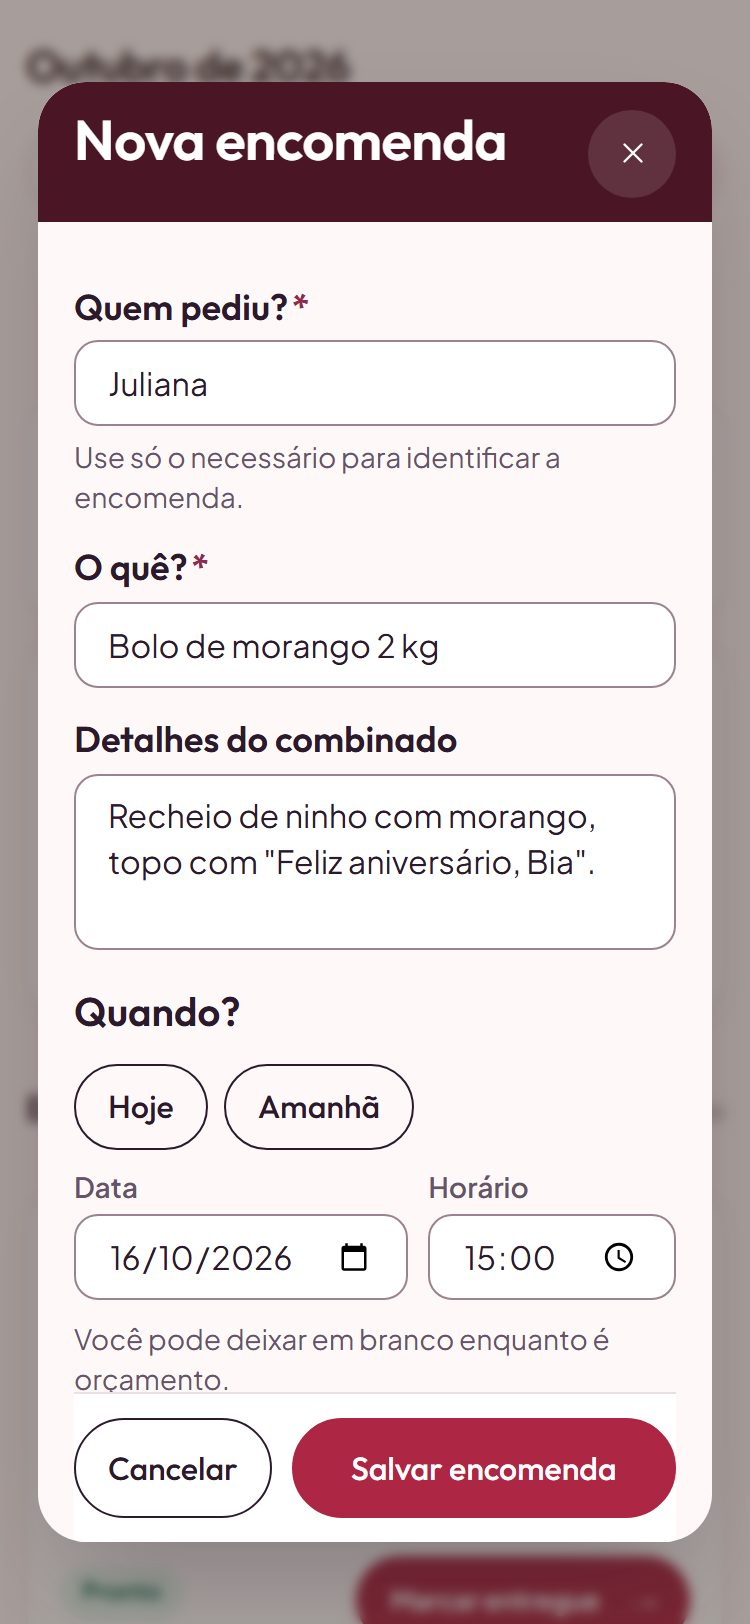
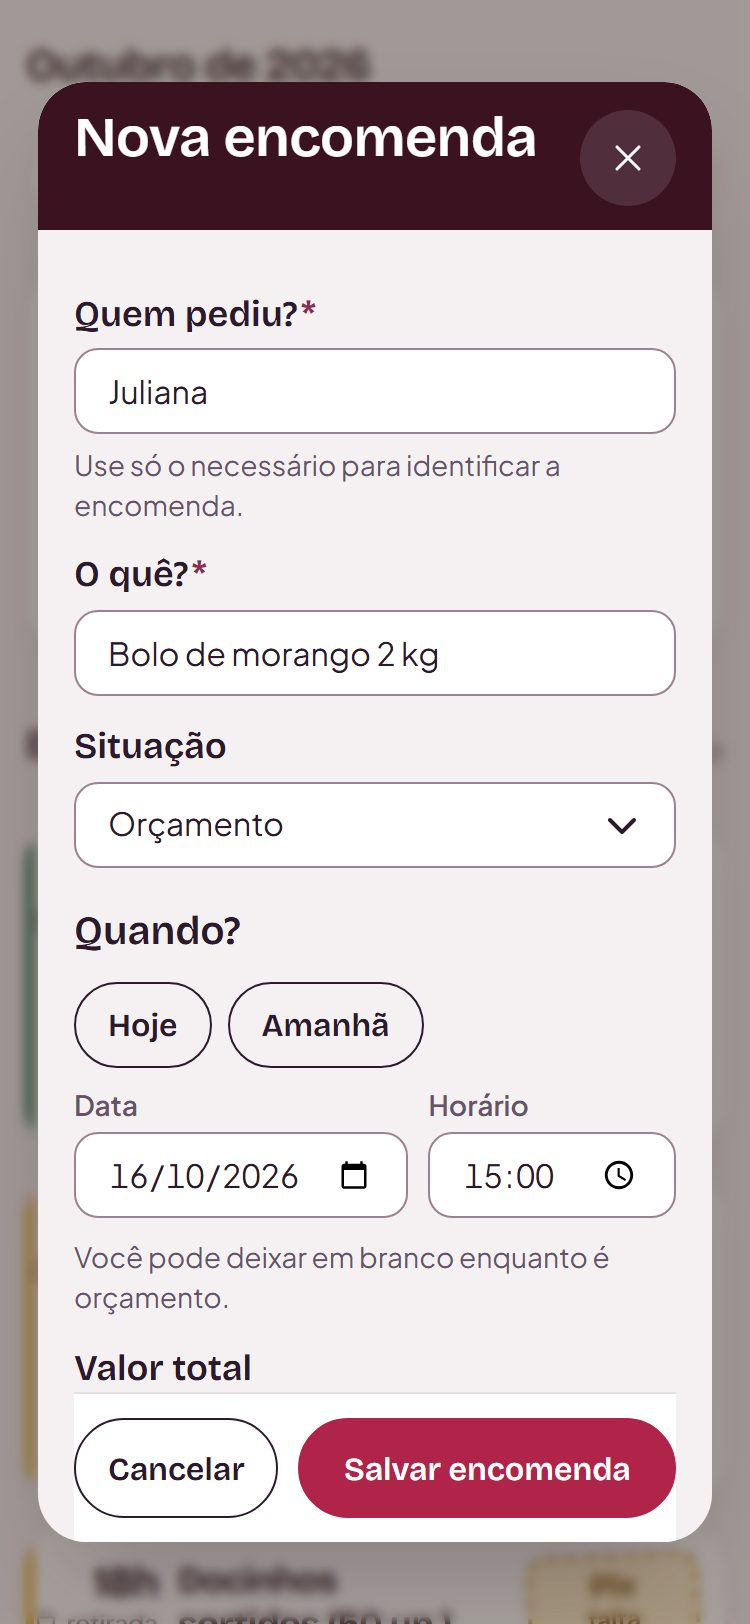
feat(visual): fase 6 da direção Comanda — vitrine, landing e privacidade
- Vitrine: produto sem foto vira cartão de texto (sem letra gigante).
- Landing: Bricolage, paleta nova, título numa cor só, rótulos em caixa
  normal, carimbo de volta; telas dos celulares refeitas.
- Script das telas da landing abre "Mais detalhes" antes do combinado.
- Privacidade com o fundo e o cabeçalho do app.
- context.md registra as 7 fases.

diff --git a/public/landing/landing.css b/public/landing/landing.css
@@ -312,3 +312,19 @@ h1,h2{letter-spacing:-.03em}
 .drip{display:none}
 /* O carimbo vira o selo verde do app: "Sinal conferido", sem rotação. */
 .stamp-mini{border:0;border-radius:30px;background:#e5f7ef;color:#006947;font-family:"Plus Jakarta Sans",sans-serif;font-size:12px;letter-spacing:0;text-transform:none;transform:none;padding:5px 10px}
+
+/* Direção Comanda (16/10): mesmas cores, letras e carimbo do app. */
+@font-face{font-family:"Bricolage Grotesque";src:url("/fonts/vnext/bricolage-600.woff2") format("woff2");font-weight:500 650;font-display:swap}
+@font-face{font-family:"Bricolage Grotesque";src:url("/fonts/vnext/bricolage-700.woff2") format("woff2");font-weight:651 900;font-display:swap}
+:root{--font-title:"Bricolage Grotesque","Plus Jakarta Sans",sans-serif;--papel:#f5f1f2;--ameixa:#3a1220;--ink:#2a141b;--muted:#6f5a61;--link:#b0244a;--line:#e9e0e3;
+  --wa-color-brand-fill-loud:#b0244a;--wa-color-brand-border-loud:#b0244a}
+body,.top-band{background:#f5f1f2}
+.top-band{border-bottom-color:#e9e0e3}
+h1{font-weight:700}
+/* O título fala por inteiro: sem metade em outra cor. */
+h1 em{color:inherit}
+/* Rótulos em caixa normal. */
+.eyebrow,.step-eyebrow,.ld-label,.pain-list small{text-transform:none;letter-spacing:0}
+/* O carimbo volta a ser carimbo: borda verde, leve inclinação. */
+.stamp-mini{border:2px solid #1e6b47;border-radius:10px;background:#e3f2e9;color:#1e6b47;font-family:"Bricolage Grotesque",sans-serif;font-weight:700;transform:rotate(-5deg)}
+@media (prefers-reduced-motion:reduce){.stamp-mini{transform:none}}

diff --git a/public/encomenda/order.js b/public/encomenda/order.js
@@ -83,6 +83,8 @@ function headerHtml() {
 }
 function cardHtml(p, tag) {
   const i = config.products.indexOf(p), price = Number.isInteger(p.priceFromCents) ? `<p class="price">a partir de ${formatCents(p.priceFromCents)}</p>` : '';
+  // Sem foto: cartão só de texto (antes virava uma letra enorme no lugar da imagem, com cara de inacabado).
+  if (!p.photo) return `<button type="button" class="card is-text" data-product="${i}">${tag ? `<span class="tag">${tag}</span>` : ''}<h3>${esc(p.name)}</h3>${price}${p.description ? `<p class="sub">${esc(p.description)}</p>` : ''}<span class="card-go" aria-hidden="true">Ver e pedir</span></button>`;
   return `<button type="button" class="card" data-product="${i}"><div class="img">${productPhoto(p)}${tag ? `<span class="tag">${tag}</span>` : ''}</div><h3>${esc(p.name)}</h3>${price || (p.description ? `<p class="sub">${esc(p.description)}</p>` : '')}</button>`;
 }
 function renderHome() {

diff --git a/public/encomenda/order.css b/public/encomenda/order.css
@@ -270,3 +270,9 @@ input:focus-visible,select:focus-visible,textarea:focus-visible{outline:3px soli
   .sheet{max-width:620px}
   .foot{max-width:1180px;margin:0 auto}
 }
+/* Direção Comanda (16/10): produto sem foto vira cartão de texto, na cor da confeitaria. */
+.card.is-text{position:relative;justify-content:flex-start;gap:4px;min-height:132px;padding:16px;border-radius:var(--r-img);background:var(--a-tint);color:var(--t)}
+.card.is-text .tag{position:static;align-self:flex-start;margin-bottom:6px}
+.card.is-text h3{margin:0}
+.card.is-text .card-go{margin-top:auto;padding-top:10px;color:var(--a-ink);font-size:14px;font-weight:700}
+.grid.one .card.is-text{min-height:0}

diff --git a/public/privacidade/privacy.css b/public/privacidade/privacy.css
@@ -7,3 +7,5 @@ h1,h2{font-family:var(--font-title);line-height:1.12}h1{font-size:clamp(30px,7vw
 a{color:var(--link)}a:focus-visible{outline:3px solid var(--focus);outline-offset:3px}
 footer{max-width:680px;margin:auto;padding:24px 20px 40px;font-size:12px;color:var(--muted)}
 @media(max-width:380px){header{padding:16px 20px}}
+/* Direção Comanda (16/10): mesmo fundo e cabeçalho do app. */
+body{background:#f5f1f2;color:#2a141b}header{background:#fff;border-bottom:1px solid #e9e0e3}h1,h2{font-family:"Bricolage Grotesque","Plus Jakarta Sans",sans-serif;letter-spacing:-.02em}

diff --git a/context.md b/context.md
@@ -14,6 +14,7 @@ Atualizado em **16/10/2026**. Passagem de bastão: estado real, decisões e o qu
   - Aceite: "Aceitar pedido" (Confirmado) / "Ainda vou passar o preço" (Orçamento) / "Recusar". Pedido com telefone ganha "Abrir conversa com o resumo" (wa.me com texto; fora da demo/exemplos). Resumo inclui a chave Pix se o Pix estiver ligado.
   - Verificado: `npm run check` passou; demo local 360/1280 e demo publicada 360 (barra, ordem da Agenda, revisão, rodapé do pedido). Não verificado: conta real, iPhone, abrir o WhatsApp de verdade.
   - Decidido não fazer: aceite único perguntando do sinal (misturaria situação com dinheiro); rosa forte para alerta (é a cor da marca).
+- **Direção visual "Comanda" (16/10), aprovada por Lucas, 7 fases publicadas** (relatório em `docs/auditoria-ui-2026-10-16/`, regras em `BRAND.md`): 0 defeitos (cartão cortado a 360 px, WhatsApp na demo, valores quebrados, contraste); 1 cores/fontes (Bricolage + Plus Jakarta, fundo farinha); 2 cartão Comanda + carimbo do dinheiro; 3 ficha + WhatsApp com verbo do momento (sinal sugerido do Pix, padrão 30%); 4 cabeçalhos curtos, contador só do que pede ação, Meu mês com Recebido em destaque; 5 cartão sem interativo aninhado (axe 0 em Agenda/Pedidos), Fredoka/Figtree fora do site; 6 vitrine sem foto em cartão de texto, landing e privacidade na nova paleta. `npm run check` passou até a fase 5; na 6 rodaram vitrine, landing e carimbos. **Pendente:** remover o CSS Glacê morto de `style.css` com comparação de capturas; landing ainda carrega Outfit; ninguém real testou. Scripts da auditoria em `Documents/doce-agenda-auditoria/`.
 - Antes: **caixa de entrada** em Pedidos → Novos (Para revisar / Em negociação, origem "Recebido pelo link" mantida após revisão, valor e ocupação da data).
 - Antes dela, publicados em 16/10: **nova identidade vnext** (`public/ui/vnext.css`, fontes Outfit e Plus Jakarta Sans, barra lateral a partir de 1100 px), **Vitrine V1** (estilos, fotos no Storage, Worker com `og:` por confeitaria, kit de divulgação), **Clientes** e **Pix escondido** (`?pix=teste`).
 - 16/10: único subagente permitido é o `triagem-haiku`, só leitura (commit `4cdebbc`).
